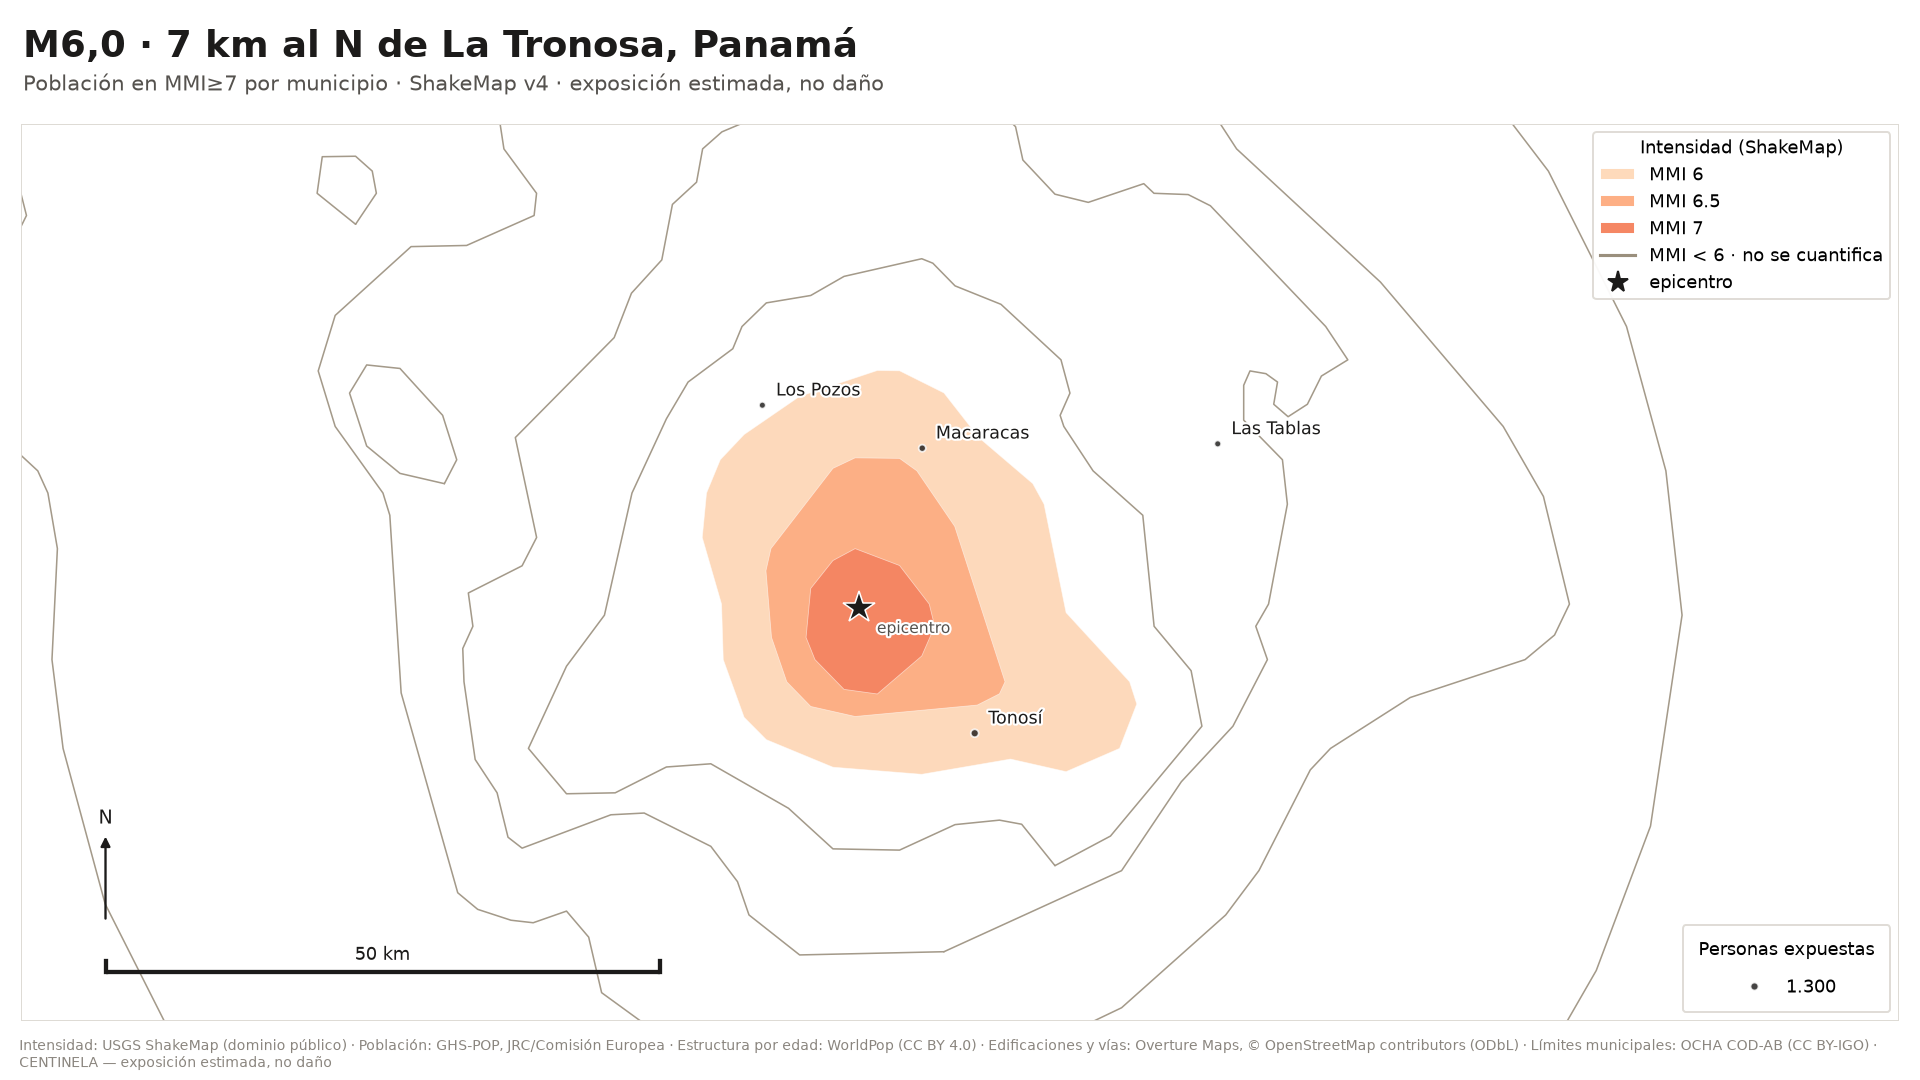
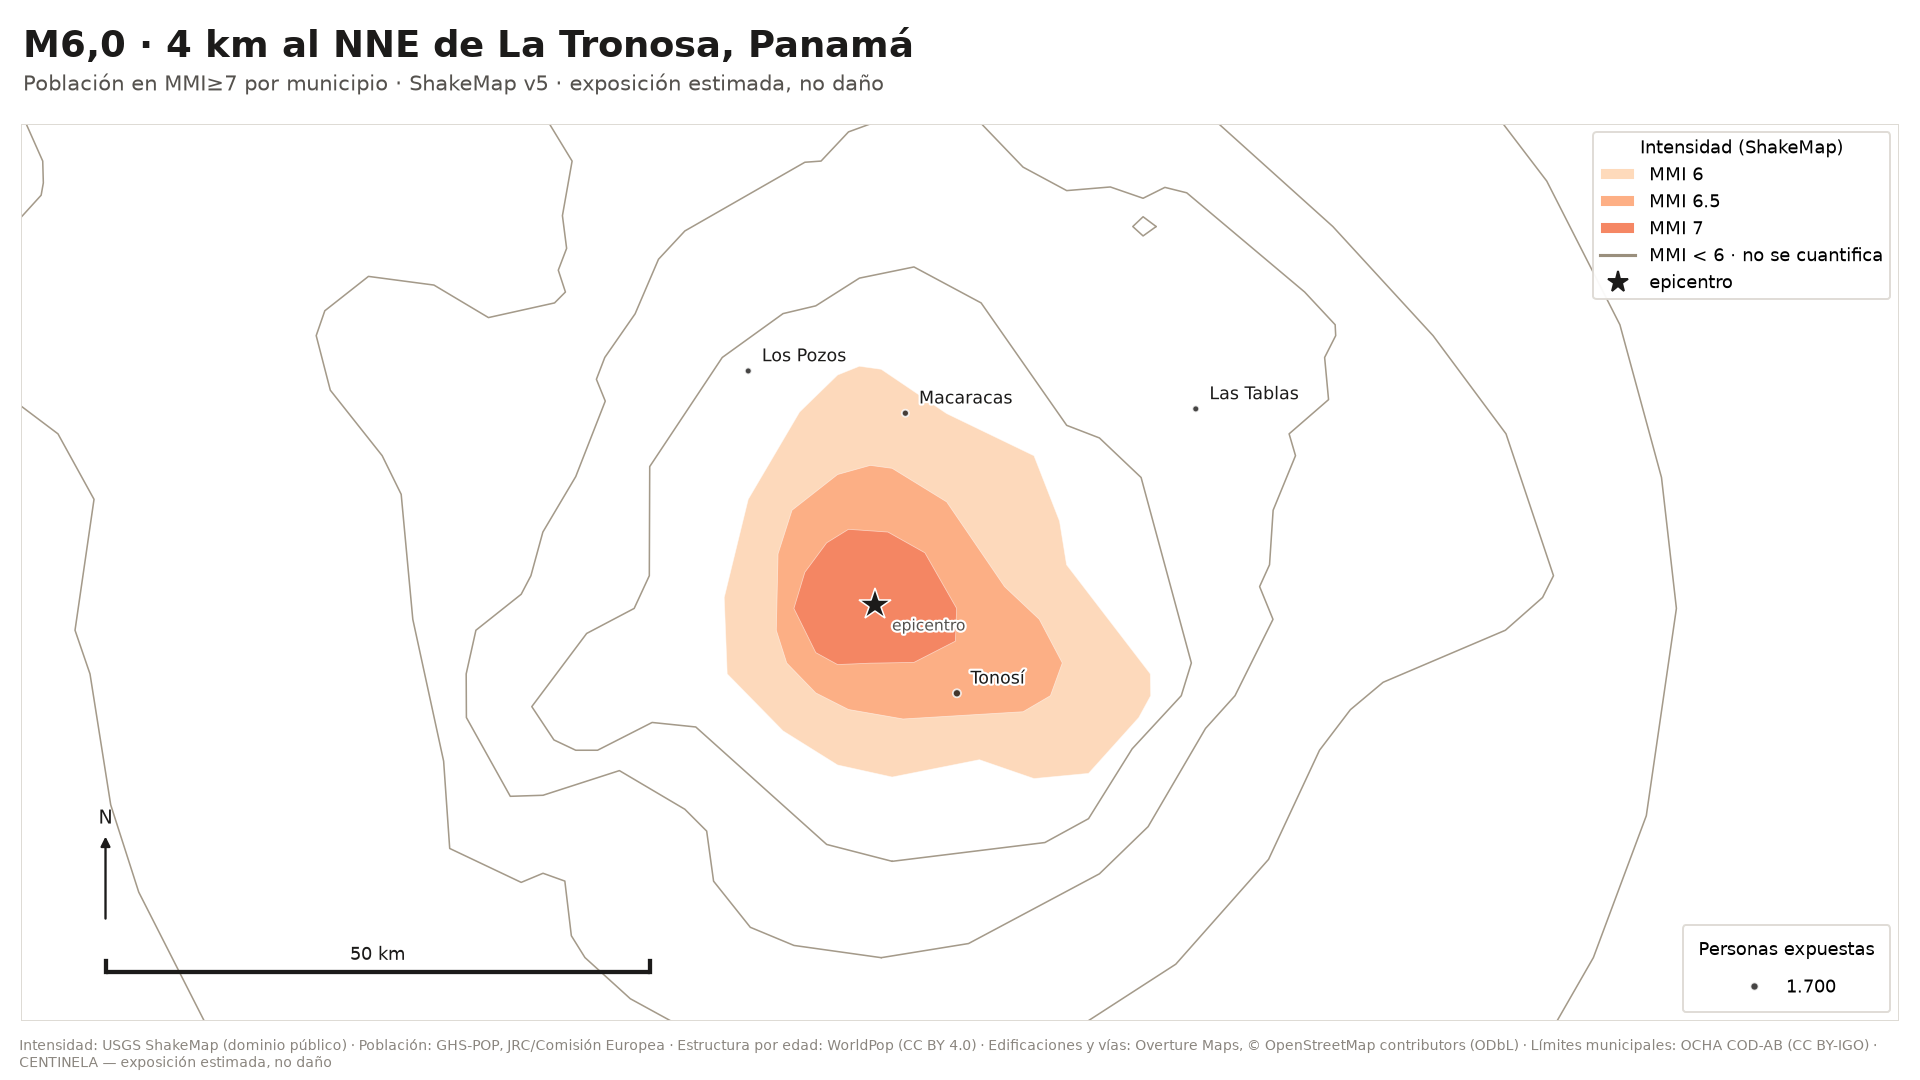
P3: reporte de us6000u1cf

diff --git a/reports/us6000u1cf/report.md b/reports/us6000u1cf/report.md
@@ -1,4 +1,4 @@
-# Exposición sísmica: M6,0 · 7 km al N de La Tronosa, Panamá
+# Exposición sísmica: M6,0 · 4 km al NNE de La Tronosa, Panamá
 
 **Evento USGS:** `us6000u1cf` · **Origen:** 2026-10-10T04:14:01Z UTC · **Profundidad:** 10,0 km
 
@@ -6,28 +6,28 @@
 
 | Indicador | Estimado |
 |---|---:|
-| Población en MMI≥6 | 12 mil |
-| Población en MMI≥7 | 1.500 |
+| Población en MMI≥6 | 10 mil |
+| Población en MMI≥7 | 1.700 |
 | Población en MMI≥8 | el evento no llegó a esta banda |
-| Edificaciones en MMI≥7 | 1.000 |
+| Edificaciones en MMI≥7 | 1.200 |
 | Sedes de salud en MMI≥7 | 0 |
 | Sedes educativas en MMI≥7 | 1 |
-| Vías primarias y secundarias en MMI≥7 | 16 km |
-| Vías locales en MMI≥7 | 48 km |
+| Vías primarias y secundarias en MMI≥7 | 18 km |
+| Vías locales en MMI≥7 | 57 km |
 | Superficie construida en MMI≥7 | 0,2 km² |
 
-El satélite detecta **1,7 veces** más superficie construida de la que explicarían las 1.000 edificaciones registradas en MMI≥7. La diferencia suele ser asentamiento informal o zona rural dispersa sin mapear: **el conteo de edificaciones se queda corto ahí, y la superficie construida no**.
+El satélite detecta **1,7 veces** más superficie construida de la que explicarían las 1.200 edificaciones registradas en MMI≥7. La diferencia suele ser asentamiento informal o zona rural dispersa sin mapear: **el conteo de edificaciones se queda corto ahí, y la superficie construida no**.
 
 Las cifras de esta tabla van redondeadas a dos cifras significativas, que es la precisión que un modelo de exposición sostiene. Las exactas están en el CSV municipal y en `report.json`.
 
-De la población en intensidad MMI≥7, alrededor de **290** personas tienen 65 años o más.
+De la población en intensidad MMI≥7, alrededor de **340** personas tienen 65 años o más.
 
 ## Municipios más expuestos, por población en MMI≥7
 
 | # | Municipio | Código | MMI max | Población MMI≥7 |
 |---:|---|---|---:|---:|
-| 1 | Tonosí | `PA0907` | 7,0 | 1.300 |
-| 2 | Macaracas | `PA0904` | 7,0 | 150 |
+| 1 | Tonosí | `PA0907` | 7,0 | 1.700 |
+| 2 | Macaracas | `PA0904` | 7,0 | 57 |
 
 ## Deslizamiento y licuefacción
 
@@ -38,7 +38,7 @@ Las dos cifras se cuentan sobre las celdas del corte publicado (MMI≥6). **No s
 
 **Y el umbral se evalúa en un solo punto por celda: su centroide.** El píxel del ráster es más pequeño que la celda, así que ese punto decide si entra la población entera de la celda o no entra ninguna. No es una estadística areal, y el sesgo que introduce no está medido: puede quedarse corto o pasarse.
 
-Fuente: producto *Ground Failure* de USGS (v3), dominio público.
+Fuente: producto *Ground Failure* de USGS (v4), dominio público.
 
 ## Referencia cruzada
 
@@ -48,10 +48,17 @@ Las dos cifras **no se tabulan igual** y no se pueden leer una contra otra: PAGE
 
 ## Incertidumbre y calidad
 
-Discrepancia entre GHS-POP y WorldPop en las bandas MMI publicadas: **17,7 %**.
+Discrepancia entre GHS-POP y WorldPop en las bandas MMI publicadas: **10,8 %**.
 
 ## Cambios frente a la versión anterior
 
+- ShakeMap: v4 (us) → v5 (us)
+- Ground Failure: v3 (us) → v4 (us)
+- Epicentro: reubicado 4 km
+- Población en MMI≥6: 12 mil → 10 mil
+- Población en MMI≥7: 1.500 → 1.700
+- Población de 65 años o más en MMI≥7: 290 → 340
+- Edificaciones en MMI≥7: 1.000 → 1.200
 - ShakeMap: v3 (us) → v4 (us)
 - Ground Failure: v2 (us) → v3 (us)
 - Ninguna cifra publicada cambia frente a la versión anterior.
@@ -75,10 +82,10 @@ Discrepancia entre GHS-POP y WorldPop en las bandas MMI publicadas: **17,7 %**.
 
 ## Procedencia
 
-- ShakeMap consumido: **v4** de `us`
-- Ground Failure consumido: **v3** de `us`
-- Manifiesto de exposición: [`pan-v0.4`](https://github.com/sforero77/CENTINELA/blob/main/data/manifests/PAN.yaml)
-- Pipeline: `0.1.0` · Generado: 2026-10-11T11:21:04Z
+- ShakeMap consumido: **v5** de `us`
+- Ground Failure consumido: **v4** de `us`
+- Manifiesto de exposición: [`pan-v0.5`](https://github.com/sforero77/CENTINELA/blob/main/data/manifests/PAN.yaml)
+- Pipeline: `0.1.0` · Generado: 2026-10-30T11:34:39Z
 
 ## Advertencias
 
